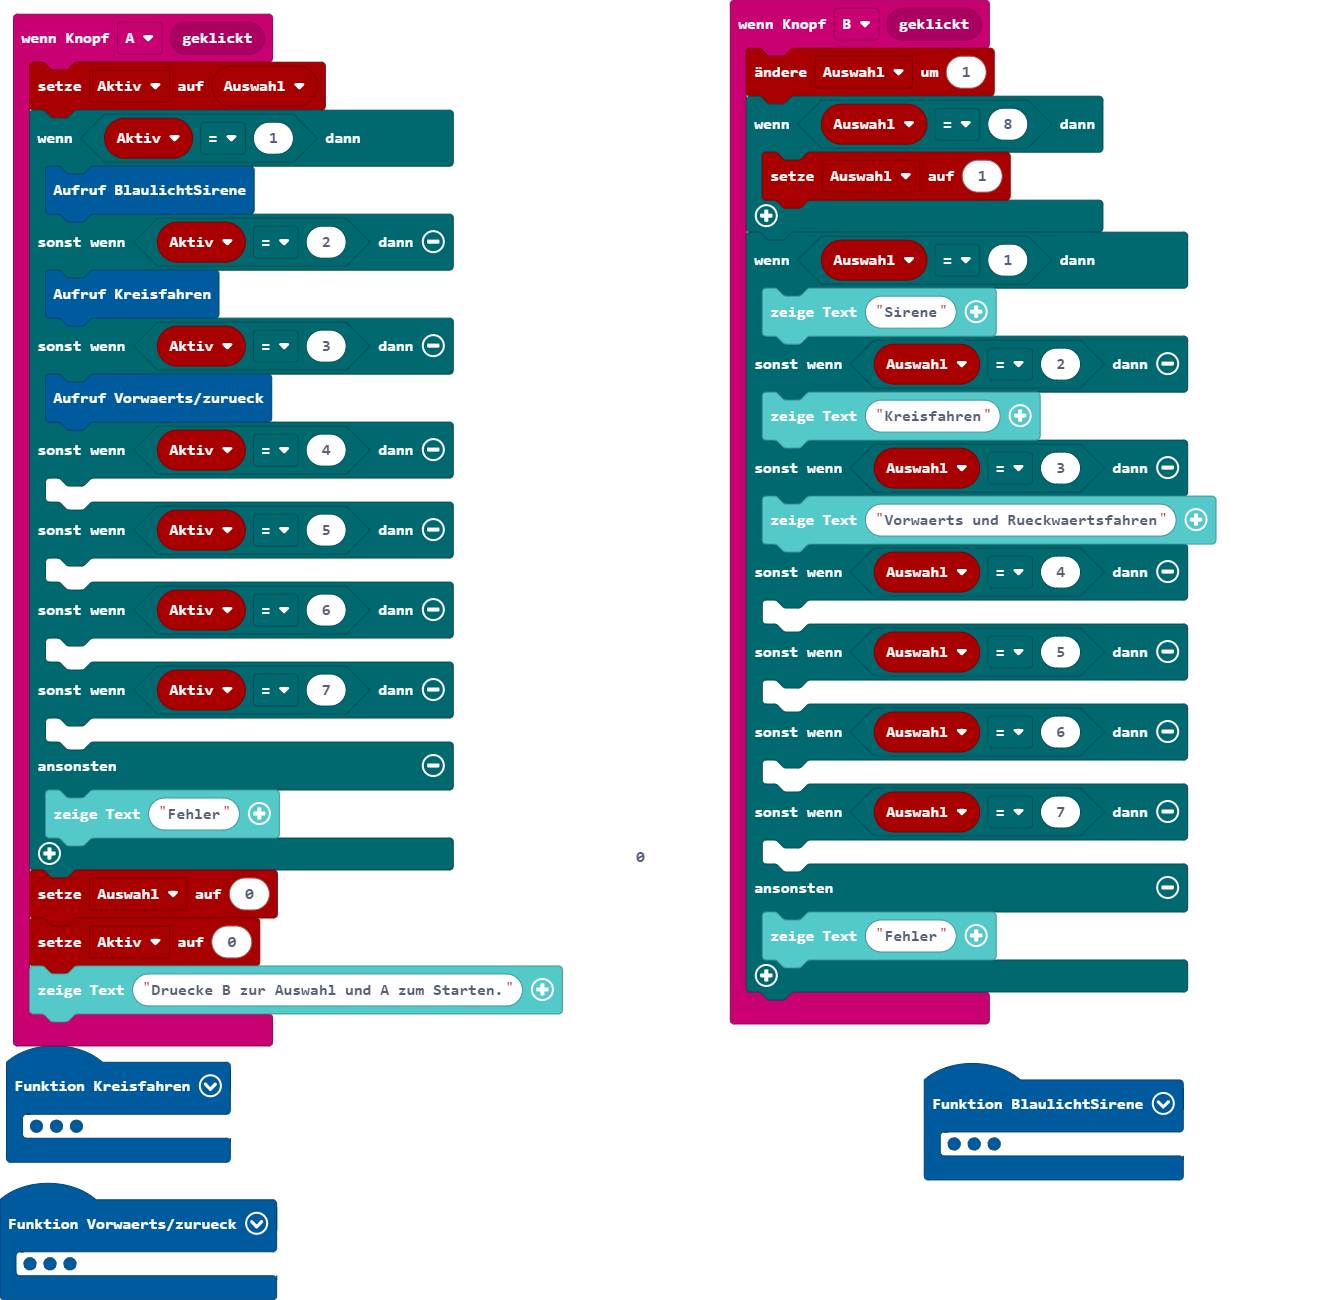
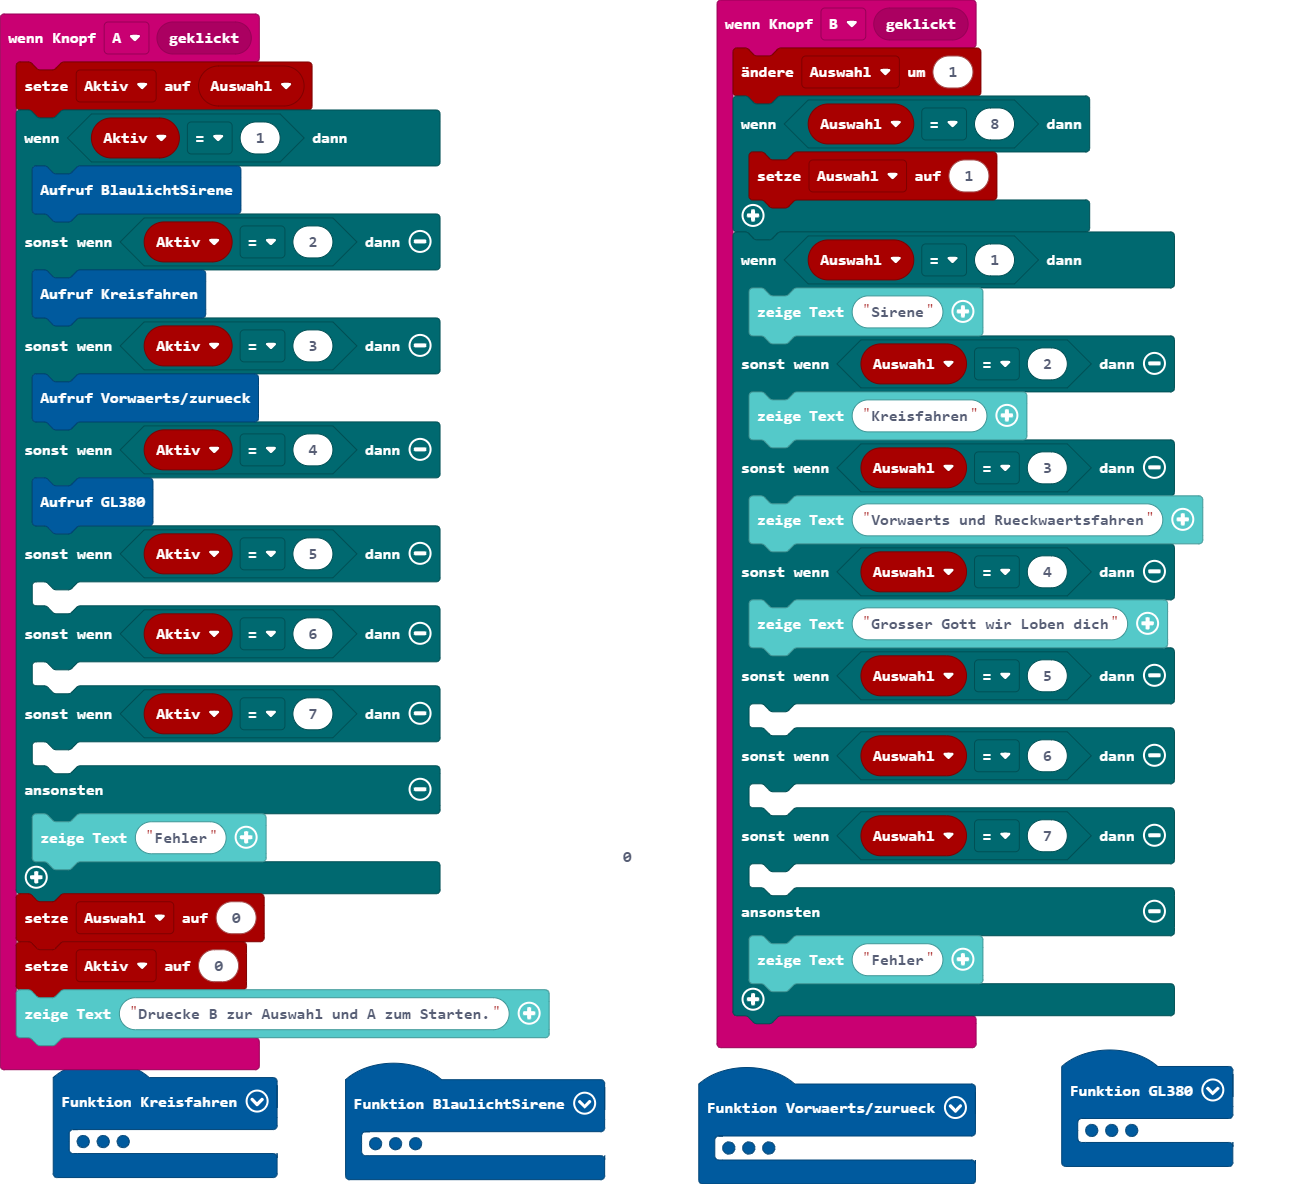
Aktualisiere main.blocks, main.ts

diff --git a/main.ts b/main.ts
@@ -2,14 +2,14 @@ let Aktiv = 0
 let Auswahl = 0
 function Kreisfahren () {
     callibot.motor(KMotor.links, KDir.rückwärts, 100)
-    for (let index = 0; index < 100; index++) {
-        callibot.setRgbLed(KRgbLed.RV, KRgbColor.rot, 8)
+    for (let index = 0; index < 50; index++) {
+        callibot.setRgbLed(KRgbLed.RV, KRgbColor.gelb, 8)
         callibot.setLed(KMotor.rechts, KState.an)
         led.plot(0, 4)
         basic.pause(1000)
         led.unplot(0, 4)
         callibot.setLed(KMotor.rechts, KState.aus)
-        callibot.setRgbLed(KRgbLed.RV, KRgbColor.rot, 0)
+        callibot.setRgbLed(KRgbLed.RV, KRgbColor.gelb, 0)
     }
     callibot.motorStop(KMotor.links, KStop.Frei)
 }
@@ -22,7 +22,7 @@ input.onButtonEvent(Button.A, input.buttonEventClick(), function () {
     } else if (Aktiv == 3) {
         Vorwaertszurueck()
     } else if (Aktiv == 4) {
-    	
+        GL380()
     } else if (Aktiv == 5) {
     	
     } else if (Aktiv == 6) {
@@ -37,7 +37,7 @@ input.onButtonEvent(Button.A, input.buttonEventClick(), function () {
     basic.showString("Druecke B zur Auswahl und A zum Starten.")
 })
 function BlaulichtSirene () {
-    for (let index = 0; index < 100; index++) {
+    for (let index = 0; index < 15; index++) {
         callibot.setRgbLed(KRgbLed.All, KRgbColor.rot, 0)
         basic.showLeds(`
             # . . . #
@@ -71,11 +71,11 @@ function BlaulichtSirene () {
 function Vorwaertszurueck () {
     for (let index = 0; index < 10; index++) {
         callibot.motor(KMotor.beide, KDir.vorwärts, 100)
-        basic.pause(1000)
-        callibot.motorStop(KMotor.beide, KStop.Bremsen)
+        basic.pause(2000)
+        callibot.motorStop(KMotor.beide, KStop.Frei)
         callibot.motor(KMotor.beide, KDir.rückwärts, 100)
-        basic.pause(1000)
-        callibot.motorStop(KMotor.beide, KStop.Bremsen)
+        basic.pause(2000)
+        callibot.motorStop(KMotor.beide, KStop.Frei)
     }
 }
 input.onButtonEvent(Button.B, input.buttonEventClick(), function () {
@@ -90,7 +90,7 @@ input.onButtonEvent(Button.B, input.buttonEventClick(), function () {
     } else if (Auswahl == 3) {
         basic.showString("Vorwaerts und Rueckwaertsfahren")
     } else if (Auswahl == 4) {
-    	
+        basic.showString("Grosser Gott wir Loben dich")
     } else if (Auswahl == 5) {
     	
     } else if (Auswahl == 6) {
@@ -101,3 +101,44 @@ input.onButtonEvent(Button.B, input.buttonEventClick(), function () {
         basic.showString("Fehler")
     }
 })
+function GL380 () {
+    for (let index = 0; index < 2; index++) {
+        music.playTone(349, music.beat(BeatFraction.Double))
+        music.playTone(349, music.beat(BeatFraction.Whole))
+        music.playTone(349, music.beat(BeatFraction.Whole))
+        music.playTone(330, music.beat(BeatFraction.Whole))
+        music.playTone(349, music.beat(BeatFraction.Whole))
+        music.playTone(392, music.beat(BeatFraction.Whole))
+        music.playTone(440, music.beat(BeatFraction.Whole))
+        music.playTone(392, music.beat(BeatFraction.Whole))
+        music.playTone(349, 3)
+        music.playTone(440, music.beat(BeatFraction.Double))
+        music.playTone(440, music.beat(BeatFraction.Whole))
+        music.playTone(440, music.beat(BeatFraction.Whole))
+        music.playTone(466, music.beat(BeatFraction.Whole))
+        music.playTone(523, music.beat(BeatFraction.Whole))
+        music.playTone(523, music.beat(BeatFraction.Whole))
+        music.playTone(466, music.beat(BeatFraction.Whole))
+        music.playTone(440, music.beat(BeatFraction.Whole))
+        music.playTone(440, music.beat(BeatFraction.Whole))
+        music.playTone(392, music.beat(BeatFraction.Whole))
+        music.rest(music.beat(BeatFraction.Whole))
+    }
+    music.playTone(392, music.beat(BeatFraction.Double))
+    music.playTone(466, music.beat(BeatFraction.Whole))
+    music.playTone(466, music.beat(BeatFraction.Whole))
+    music.playTone(440, music.beat(BeatFraction.Whole))
+    music.playTone(392, music.beat(BeatFraction.Whole))
+    music.playTone(440, music.beat(BeatFraction.Double))
+    music.playTone(466, music.beat(BeatFraction.Whole))
+    music.playTone(523, 3)
+    music.playTone(587, music.beat(BeatFraction.Double))
+    music.playTone(587, music.beat(BeatFraction.Whole))
+    music.playTone(523, music.beat(BeatFraction.Whole))
+    music.playTone(466, music.beat(BeatFraction.Whole))
+    music.playTone(440, music.beat(BeatFraction.Whole))
+    music.playTone(466, music.beat(BeatFraction.Whole))
+    music.playTone(440, music.beat(BeatFraction.Whole))
+    music.playTone(392, music.beat(BeatFraction.Whole))
+    music.playTone(349, 3)
+}
